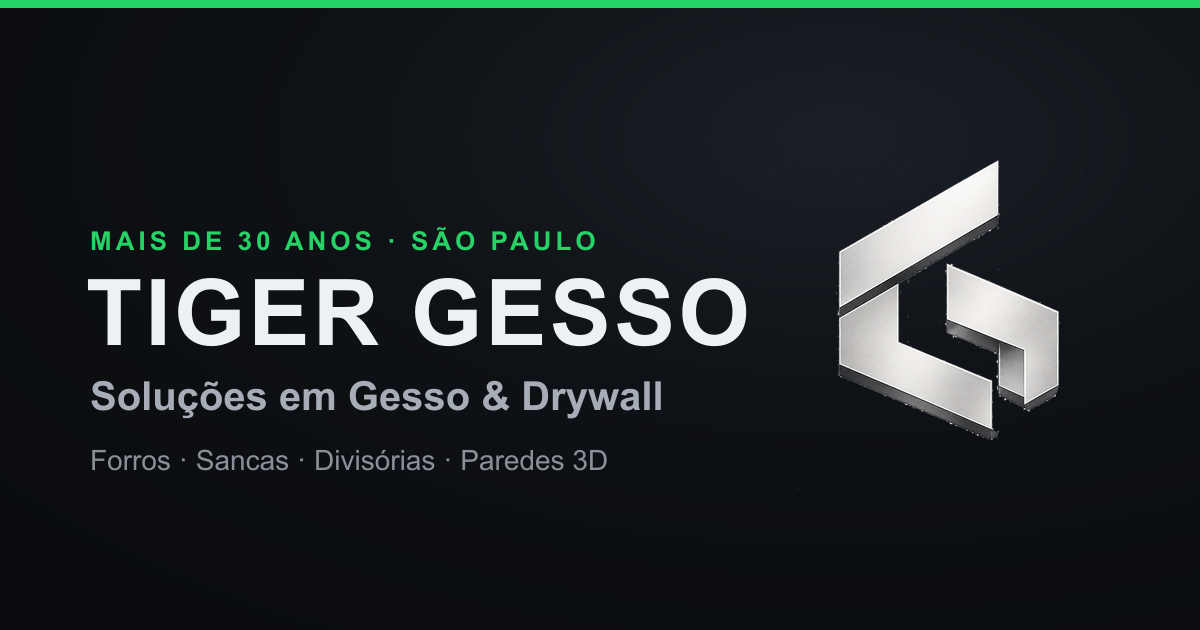
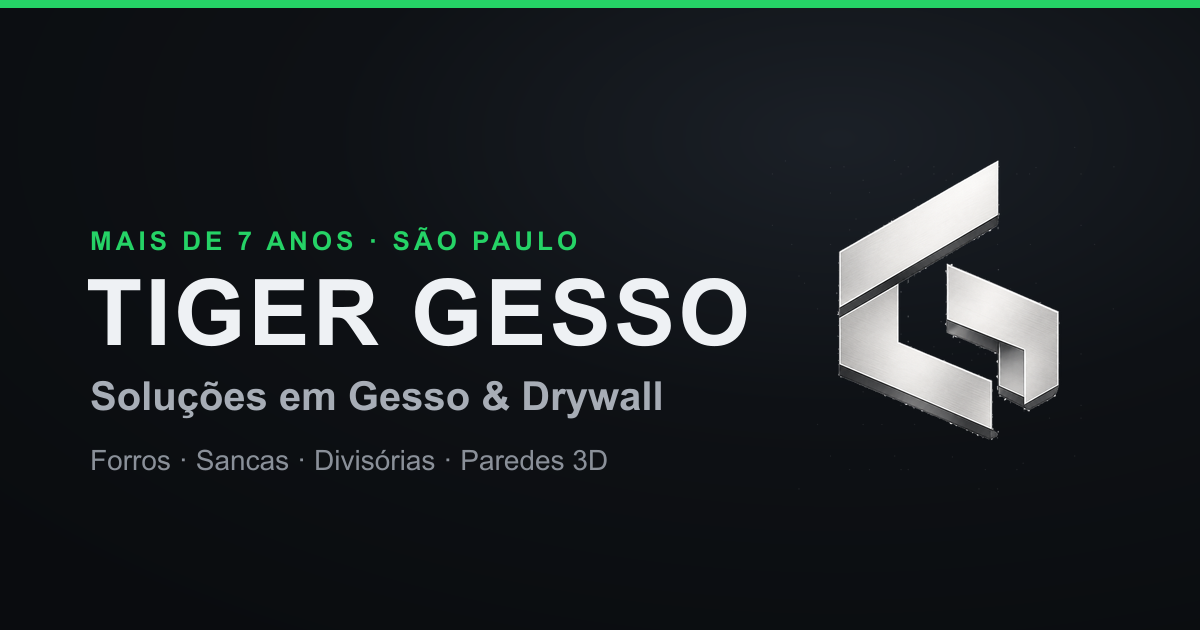
content: 7 anos de empresa e +67 obras
- site.years: 30 -> 7 (hero, sobre, stats, rodape, metadata)
- stat de obras: 2.500+ -> 67+
- atualiza imagem de compartilhamento (Open Graph) para '7 anos'

Changed region(s): [[0.185, 0.3619, 0.4933, 0.4222]]

diff --git a/src/app/layout.tsx b/src/app/layout.tsx
@@ -33,7 +33,7 @@ export const metadata: Metadata = {
     template: "%s · Tiger Gesso",
   },
   description:
-    "Forros, sancas, divisórias e paredes 3D executados por equipe própria, com acabamento impecável e garantia. Mais de 30 anos de mercado. Peça seu orçamento pelo WhatsApp.",
+    "Forros, sancas, divisórias e paredes 3D executados por equipe própria, com acabamento impecável e garantia. Mais de 7 anos de mercado. Peça seu orçamento pelo WhatsApp.",
   keywords: [
     "gesso",
     "drywall",
@@ -48,7 +48,7 @@ export const metadata: Metadata = {
   openGraph: {
     title: "Tiger Gesso — Soluções em Gesso & Drywall",
     description:
-      "Forros, sancas, divisórias e paredes 3D com equipe própria, acabamento impecável e garantia. Mais de 30 anos de mercado.",
+      "Forros, sancas, divisórias e paredes 3D com equipe própria, acabamento impecável e garantia. Mais de 7 anos de mercado.",
     url: siteUrl,
     siteName: "Tiger Gesso",
     locale: "pt_BR",

diff --git a/src/lib/site.ts b/src/lib/site.ts
@@ -10,7 +10,7 @@ export const site = {
   url: "https://tigerhub-six.vercel.app",
 
   /** Anos de mercado — aparece no hero, sobre, footer. */
-  years: 30,
+  years: 7,
 
   /** Cidade/região de atendimento. */
   city: "São Paulo e região",
@@ -49,7 +49,7 @@ export const whatsapps: WhatsAppContact[] = [
 /** Estatísticas exibidas na faixa abaixo do hero. */
 export const stats = [
   { num: `${site.years}+`, label: "anos de mercado" },
-  { num: "2.500+", label: "obras entregues" },
+  { num: "67+", label: "obras entregues" },
   { num: "100%", label: "equipe própria" },
   { num: "5★", label: "avaliação dos clientes" },
 ] as const;
